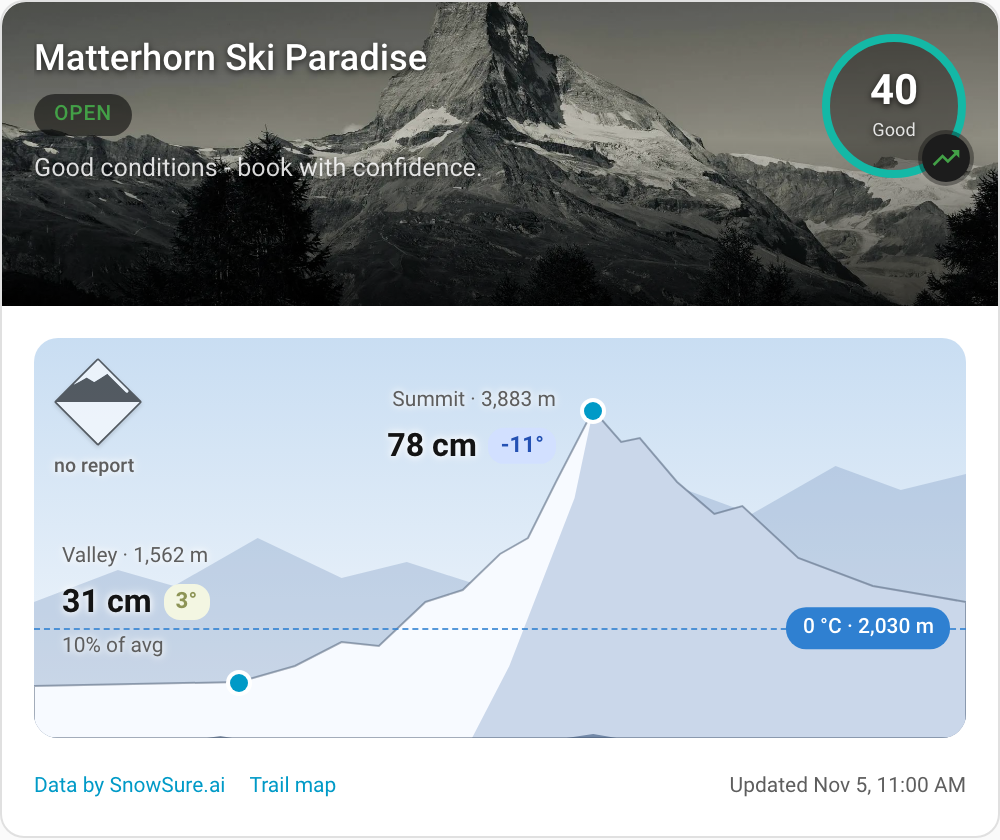
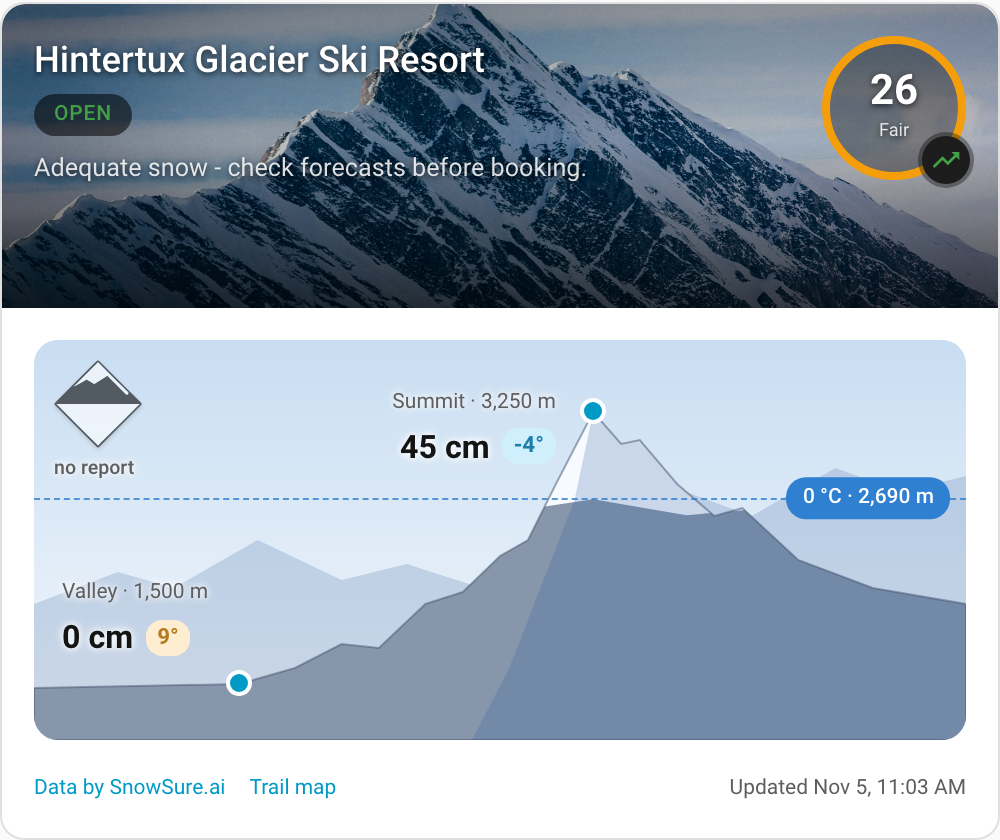
docs: screenshots from Hintertux, open with runs and lifts

diff --git a/README.md b/README.md
@@ -9,7 +9,7 @@
 
 This custom integration for Home Assistant fetches ski resort data from [SnowSure](https://www.snowsure.ai): snow depth, new snow, a 7-day forecast, the SnowSure score, lifts and runs, and the official avalanche bulletin. **It comes bundled with a Lovelace card** — no separate frontend install needed.
 
-<img src="https://raw.githubusercontent.com/timmaurice/snowsure/main/image.png" alt="SnowSure card for Matterhorn Ski Paradise: header with the resort photo, open status and score, a mountain with snow depth and temperature at valley and summit, the 0 °C line and the avalanche danger diamond, tiles for new snow, season, snow quality, runs and lifts, and a 7-day forecast with snowfall bars and temperature curves" width="500">
+<img src="https://raw.githubusercontent.com/timmaurice/snowsure/main/image.png" alt="SnowSure card for Hintertux Glacier: header with the resort photo, open status and score, a mountain with snow depth and temperature at valley and summit, the 0 °C line and the avalanche danger diamond, tiles for new snow, season, snow quality, 11 of 32 runs and 14 of 20 lifts open, a 7-day forecast with snowfall bars and temperature curves, and three webcams" width="500">
 
 ## Features
 
